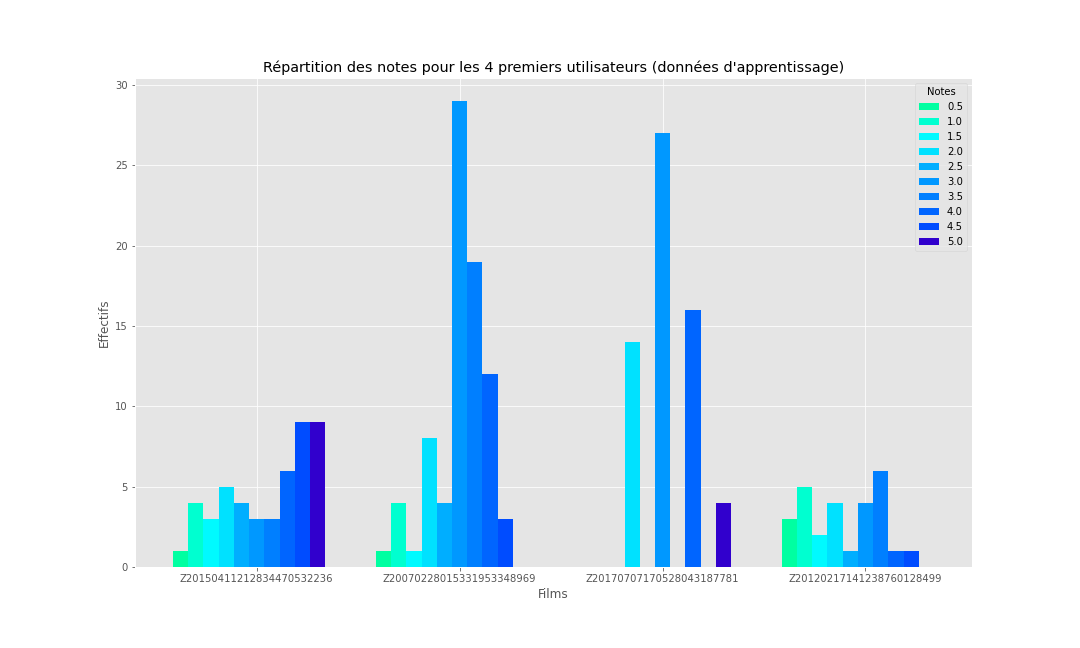
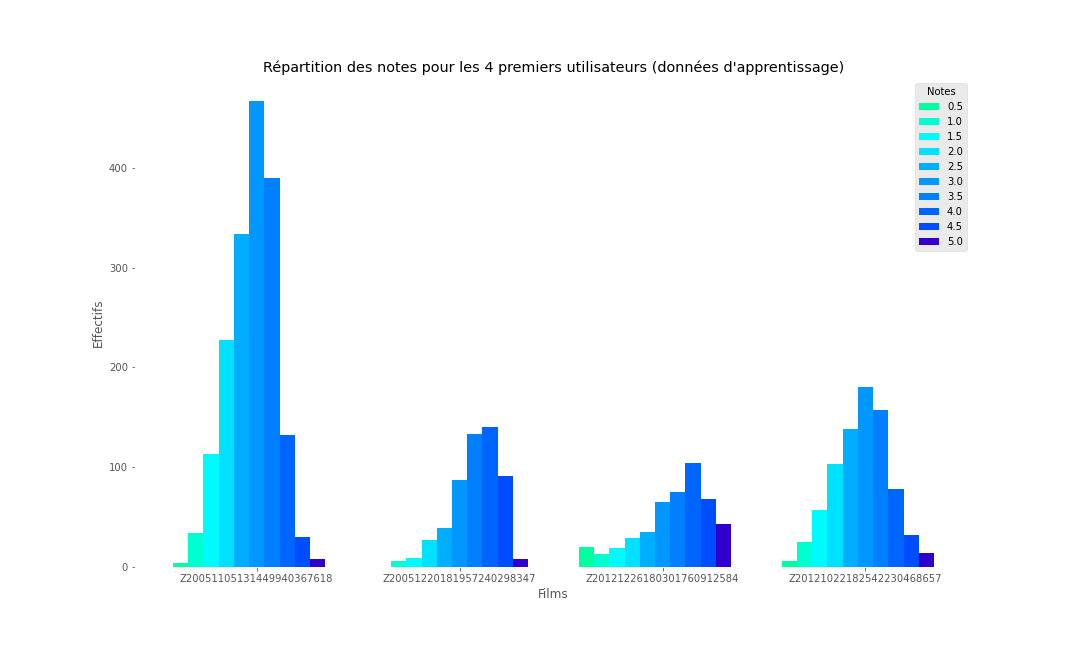
Ajout fréquence des mots par notes + des stats pour la dispersion des notes selon films/utilisateurs + qq modif code

diff --git a/tools/stat.py b/tools/stat.py
@@ -6,6 +6,8 @@ import time
 import scipy
 import sys, os
 from collections import Counter
+from scipy import stats
+import pandas as pd
 
 directory = os.path.dirname(os.path.dirname(os.path.abspath(__file__)))
 sys.path.append(directory)
@@ -13,16 +15,21 @@ sys.path.append(directory)
 import config
 
 path = config.paths['url']
-#folder_to_load = "train"
+
 folder_to_load = sys.argv[1]
-#folder_to_load2 = sys.argv[2]
+folder_to_load2 = sys.argv[2]
+
+"""
+folder_to_load = "dev"
+folder_to_load2 = "train"
+"""
 
 reviews_grades = np.load(f"{path}/processed_data/{folder_to_load}/reviews_grades.npy", allow_pickle=True).item()
 reviews_users = np.load(f"{path}/processed_data/{folder_to_load}/reviews_users.npy", allow_pickle=True).item()
 movie_grades = np.load(f"{path}/processed_data/{folder_to_load}/movie_grades.npy", allow_pickle=True).item()
 comments = np.load(f"{path}/processed_data/{folder_to_load}/comments_clean.npy", allow_pickle=True).item()
 
-#reviews_grades2 = np.load(f"{path}/processed_data/{folder_to_load2}/reviews_grades.npy", allow_pickle=True).item()
+reviews_grades2 = np.load(f"{path}/processed_data/{folder_to_load2}/reviews_grades.npy", allow_pickle=True).item()
 
 def get_mean_grades():
     mean_grade = 0
@@ -39,7 +46,7 @@ def get_mean_grades_by_movie():
 
     return mean_grades_by_movies
 
-def get_grades_repartition():
+def get_grades_repartition(reviews_grades):
     grade_repartition = {}
     for value in np.arange(0.5, 5.5, 0.5):
         grade_repartition[value] = operator.countOf(reviews_grades.values(), value)
@@ -113,9 +120,13 @@ def corr_quant(reviews_grades, length_comments):
     # Calcul de la corrélation de Pearson
     pearson_result = scipy.stats.pearsonr(notes, lengths)
     pearson_correlation = pearson_result[0]
-    p_value = pearson_result[1]
+    #p_value = pearson_result[1]
+    
+    # Calcul corrélation de spearman
+    res = stats.spearmanr(notes, lengths)
+    spearman_correlation = res.correlation
 
-    return pearson_correlation, p_value
+    return pearson_correlation, spearman_correlation
 
 def most_frequent_words_and_their_mean_grade(reviews_grades, corpus):
     mean_grade_by_words = {}
@@ -152,26 +163,74 @@ def stats_frequent_words(reviews_grades, comments, list_notes):
 
     return notes_by_words, freq_words
 
+# Stat sur les notes, n est le nombre min de note d'un utilisateur pour le prendre en compte dans les stats
+def stat_notes(distrib_notes, n):
+    
+    notes = {}
+    for key, values in distrib_notes.items():
+        notes[key] = []
+        for value in values:
+            notes[key] += [value[1]] * value[0]
+    
+    std = []
+    mean = []
+    for key, value in notes.items():
+        if(len(value)>n):
+            std.append(np.std(value))
+            mean.append(np.mean(value))
+            
+    return std, mean
+
 if __name__ == "__main__":
     ####### Generating data structures #######
+    
     mean_note_by_movie = get_mean_grades_by_movie()
-    distrib_notes = get_grades_repartition()
-    # distrib_notes2 = get_grades_repartition() # Ajouter la variable grade_reviews dans la fonction
+    distrib_notes = get_grades_repartition(reviews_grades)
+    distrib_notes2 = get_grades_repartition(reviews_grades2) # Ajouter la variable grade_reviews dans la fonction
     distrib_notes_by_movie = get_grades_repartition_by_movie()
+    
     grades_by_user = get_grades_by_user()
+    
     distrib_notes_by_user = get_grades_repartition_by_user(grades_by_user)
     b = time.time()
    
     ######## Statistiques ########
+    
     comments_char, comments_words = length_comments(comments)
-    pearson_correlation_words, p_value_words = corr_quant(reviews_grades, comments_words)
-    pearson_correlation_char, p_value_char = corr_quant(reviews_grades, comments_char)
+    pearson_correlation_words, spearman_correlation_words = corr_quant(reviews_grades, comments_words)
+    pearson_correlation_char, spearman_correlation_char = corr_quant(reviews_grades, comments_char)
 
     print("Longueur moyenne d'un commentaire (mots)", np.mean(list(comments_words.values())))
     print("Longueur moyenne d'un commentaire (charactères)", np.mean(list(comments_char.values())))
     
     print("Pearson coefficient correlation for comment lengths / grade (words): ", pearson_correlation_words)
     print("Pearson coefficient correlation for comment lengths / grade (char): ", pearson_correlation_char)
+    
+    # Stats des notes mises pour chaque utilisateurs
+    std_user_0, mean_user_0 = stat_notes(distrib_notes_by_user, 0)
+    print("statistiques concernant l'écart-type des notes par utilisateur:")
+    print(pd.Series(std_user_0).describe())
+    print("statistiques concernant la moyenne des notes par utilisateur:")
+    print(pd.Series(mean_user_0).describe())
+    
+    std_user_5, mean_user_5 = stat_notes(distrib_notes_by_user, 5)
+    print("statistiques concernant l'écart-type des notes par utilisateur ayant mis au moins 6 notes:")
+    print(pd.Series(std_user_5).describe())
+    print("statistiques concernant la moyenne des notes par utilisateur ayant mis au moins 6 notes:")
+    print(pd.Series(mean_user_5).describe())
+    
+    # Stats des notes mises pour chaque films
+    std_movie_0, mean_movie_0 = stat_notes(distrib_notes_by_movie, 0)
+    print("statistiques concernant l'écart-type des notes par film:")
+    print(pd.Series(std_movie_0).describe())
+    print("statistiques concernant la moyenne des notes par film:")
+    print(pd.Series(mean_movie_0).describe())
+
+    std_movie_5, mean_movie_5 = stat_notes(distrib_notes_by_movie, 5)
+    print("statistiques concernant l'écart-type des notes par film ayant au moins 6 notes")
+    print(pd.Series(std_movie_5).describe())
+    print("statistiques concernant la moyenne des notes par film ayant au moins 6 notes")
+    print(pd.Series(mean_movie_5).describe())
     
     print("Most frequent words and their mean grade: ")
     mean_grade_by_words = most_frequent_words_and_their_mean_grade(reviews_grades, comments)
@@ -185,6 +244,7 @@ if __name__ == "__main__":
         i+= 1
     
     # Garder seulement les 10 mots les plus fréquents avec leur fréquence
+    
     freq_grade_words = {key: value[2] for key, value in list(mean_grade_by_words.items())[0:10]}
 
     list_notes = [0.5,1,1.5,2,2.5,3,3.5,4,4.5,5]
@@ -201,26 +261,26 @@ if __name__ == "__main__":
             print(key, " - ", freq_words[note][key]/distrib_notes[note] , " - ", freq_words[note][key])
             i+= 1
         print('\n')
-      
+    
     ######## Generating graphs ########
-    graphics.graph_repartition(distrib_notes, "notes (données apprentissage)")
+    graphics.graph_repartition(distrib_notes, "Répartition des notes (" + folder_to_load + ")", "Notes")
 
     # Répartition des notes, comparaison entre les données de dev et d'apprentissage
-    #graphics.graph_note_repartition(distrib_notes, distrib_notes2, "Répartition des notes") # ajouter les arguments folder_to_load et folder_to_load2 dans la fonction
+    #graphics.graph_note_repartition(distrib_notes, distrib_notes2, "notes", folder_to_load, folder_to_load2) # ajouter les arguments folder_to_load et folder_to_load2 dans la fonction
     
     #k = list(movie_grades.keys())[0]
     #k2 = list(grades_by_user.keys())[0]
     #graphics.graph_boxplot(movie_grades[k], f"distribution des notes pour le film: {k}","boxplot_films_train")
     #graphics.graph_boxplot(grades_by_user [k2], f"distribution des notes pour\n l'utilisateur': {k2}", " boxplot_utilisateurs_train")
 
-    graphics.graph_repartition_by(distrib_notes_by_movie, 4, " films (données d'apprentissage)")
-    graphics.graph_repartition_by(distrib_notes_by_user, 4, " utilisateurs (données d'apprentissage)")
+    graphics.graph_repartition_by(distrib_notes_by_movie, 4, " films (" + folder_to_load + ")")
+    graphics.graph_repartition_by(distrib_notes_by_user, 4, " utilisateurs (" + folder_to_load + ")")
 
-    graphics.graph_boxplot(distrib_notes_by_movie, 10, "films")    
-    graphics.graph_boxplot(distrib_notes_by_user, 10, "utilisateurs") 
+    graphics.graph_boxplot(distrib_notes_by_movie, 10, "films (" + folder_to_load + ")")  
+    graphics.graph_boxplot(distrib_notes_by_user, 10, "utilisateurs (" + folder_to_load + ")")
     
-    graphics.graph_repartition(freq_grade_words, "Répartition des mots les plus fréquents")
+    graphics.graph_repartition(freq_grade_words, "Fréquence des mots les plus fréquents (" + folder_to_load + ")", "Mots")
     
-    graphics.word_cloud(mean_grade_by_words, "Wordcloud of comments")
+    graphics.word_cloud(mean_grade_by_words, "Wordcloud of comments (" + folder_to_load + ")")
 
     print("finished")

diff --git a/tools/graphics.py b/tools/graphics.py
@@ -23,41 +23,45 @@ import config
 path = config.paths['url']
 
 # Répartition des notes (données apprentissage)
-def graph_repartition(distrib_notes, titre):
+def graph_repartition(distrib_notes, titre, xLabel):
     plt.figure(figsize=(12,8))
     plt.bar(range(10), list(distrib_notes.values()), width = 0.6, color = 'red',  edgecolor = 'black', linewidth = 2,  ecolor = 'magenta', capsize = 10)
     plt.xticks(range(10), list(distrib_notes.keys()), rotation = 45)
-    plt.title("Répartition des " + titre)
-    plt.xlabel("Notes")
+    plt.title(titre)
+    plt.gca().set_facecolor('white')
+    plt.xlabel(xLabel)
     plt.ylabel("Effectifs")
     plt.savefig(f"{path}/graphs/{titre}.png")
     plt.clf()
 
 # Comparer la répartition des notes pour les données d'apprentissage
-def graph_note_repartition(distrib_notes_app, distrib_notes_dev, titre):
+def graph_note_repartition(distrib_notes_app, distrib_notes_dev, titre, name1, name2):
 
     barWidth = 0.3
     
     # Récupérer les films qu'on veut intégrer dans le graphique (les y) 
     films_app = list(distrib_notes_app.values())
     films_dev = list(distrib_notes_dev.values())
-    print(films_app)
-    print(films_dev)
+    
     #print("films = ", films)
     #print(distrib_notes[films[0]])
     x1 = range(len(films_app)) # Position des barres des données d'app
     x2 = [i + barWidth for i in x1] # des données de dev
     
-    plt.bar(x1, films_app, width = barWidth, color = 'orange', linewidth = 2, label = "learning")
-    plt.bar(x2, films_dev, width = barWidth, color = 'yellow', linewidth = 2, label = "Development")
+    plt.figure(figsize=(12,8))
+    plt.bar(x1, films_app, width = barWidth, color = 'orange', linewidth = 2, label = name1)
+    plt.bar(x2, films_dev, width = barWidth, color = 'yellow', linewidth = 2, label = name2)
 
     plt.xticks([r + barWidth / 2 for r in range(len(films_app))], list(distrib_notes_app.keys()))
 
     plt.title("Répartition des notes")
+    plt.gca().set_facecolor('white')
     plt.xlabel("Films")
     plt.ylabel("Effectifs")
     
-    plt.legend(title = 'Data')
+    plt.legend(title = 'Donnée',  facecolor='white', edgecolor='black')
+
+    #plt.show()
     plt.savefig(f"{path}/graphs/{titre}.png")
 
     plt.clf()
@@ -84,6 +88,7 @@ def graph_repartition_by(distrib_notes, n, titre):
         plt.xlabel("Films")
         plt.ylabel("Effectifs")
 
+    plt.gca().set_facecolor('white')
     plt.xticks([r + barWidth*5 for r in range(len(y))], [key for key in films])
     plt.legend(title = 'Notes')
 
@@ -108,7 +113,7 @@ def graph_boxplot(distrib_notes, n, name):
     for key in keys:
         notes.append([distrib_notes[key][i][1] for i in range(len(distrib_notes[key])) for _ in range(distrib_notes[key][i][0])])
 
-    fig = plt.figure(figsize =(10, 7))
+    fig = plt.figure(figsize =(12, 9))
  
     # Creating axes instance
     ax = fig.add_axes([0, 0, 1, 1])
@@ -118,11 +123,12 @@ def graph_boxplot(distrib_notes, n, name):
  
     # Creating plot
     ax.boxplot(notes)
+    ax.set_xlabel("Identifiants des " + name)
+    ax.set_ylabel("Notes")
     
     # Adding title 
     plt.title("Dispersion des notes")
-    ax.set_xlabel("Identifiants des " + name)
-    ax.set_ylabel("Notes")
+    plt.gca().set_facecolor('white')
  
     titre = "Dispersion des notes pour les " + name
     plt.savefig(f"{path}/graphs/{titre}.png")

diff --git a/tools/bert.py b/tools/bert.py
@@ -11,7 +11,7 @@ Lien: https://ledatascientist.com/analyse-de-sentiments-avec-camembert/
 Importation de librairies
 """
 
-#import torch
+import torch
 import seaborn
 import pandas as pd
 import numpy as np
